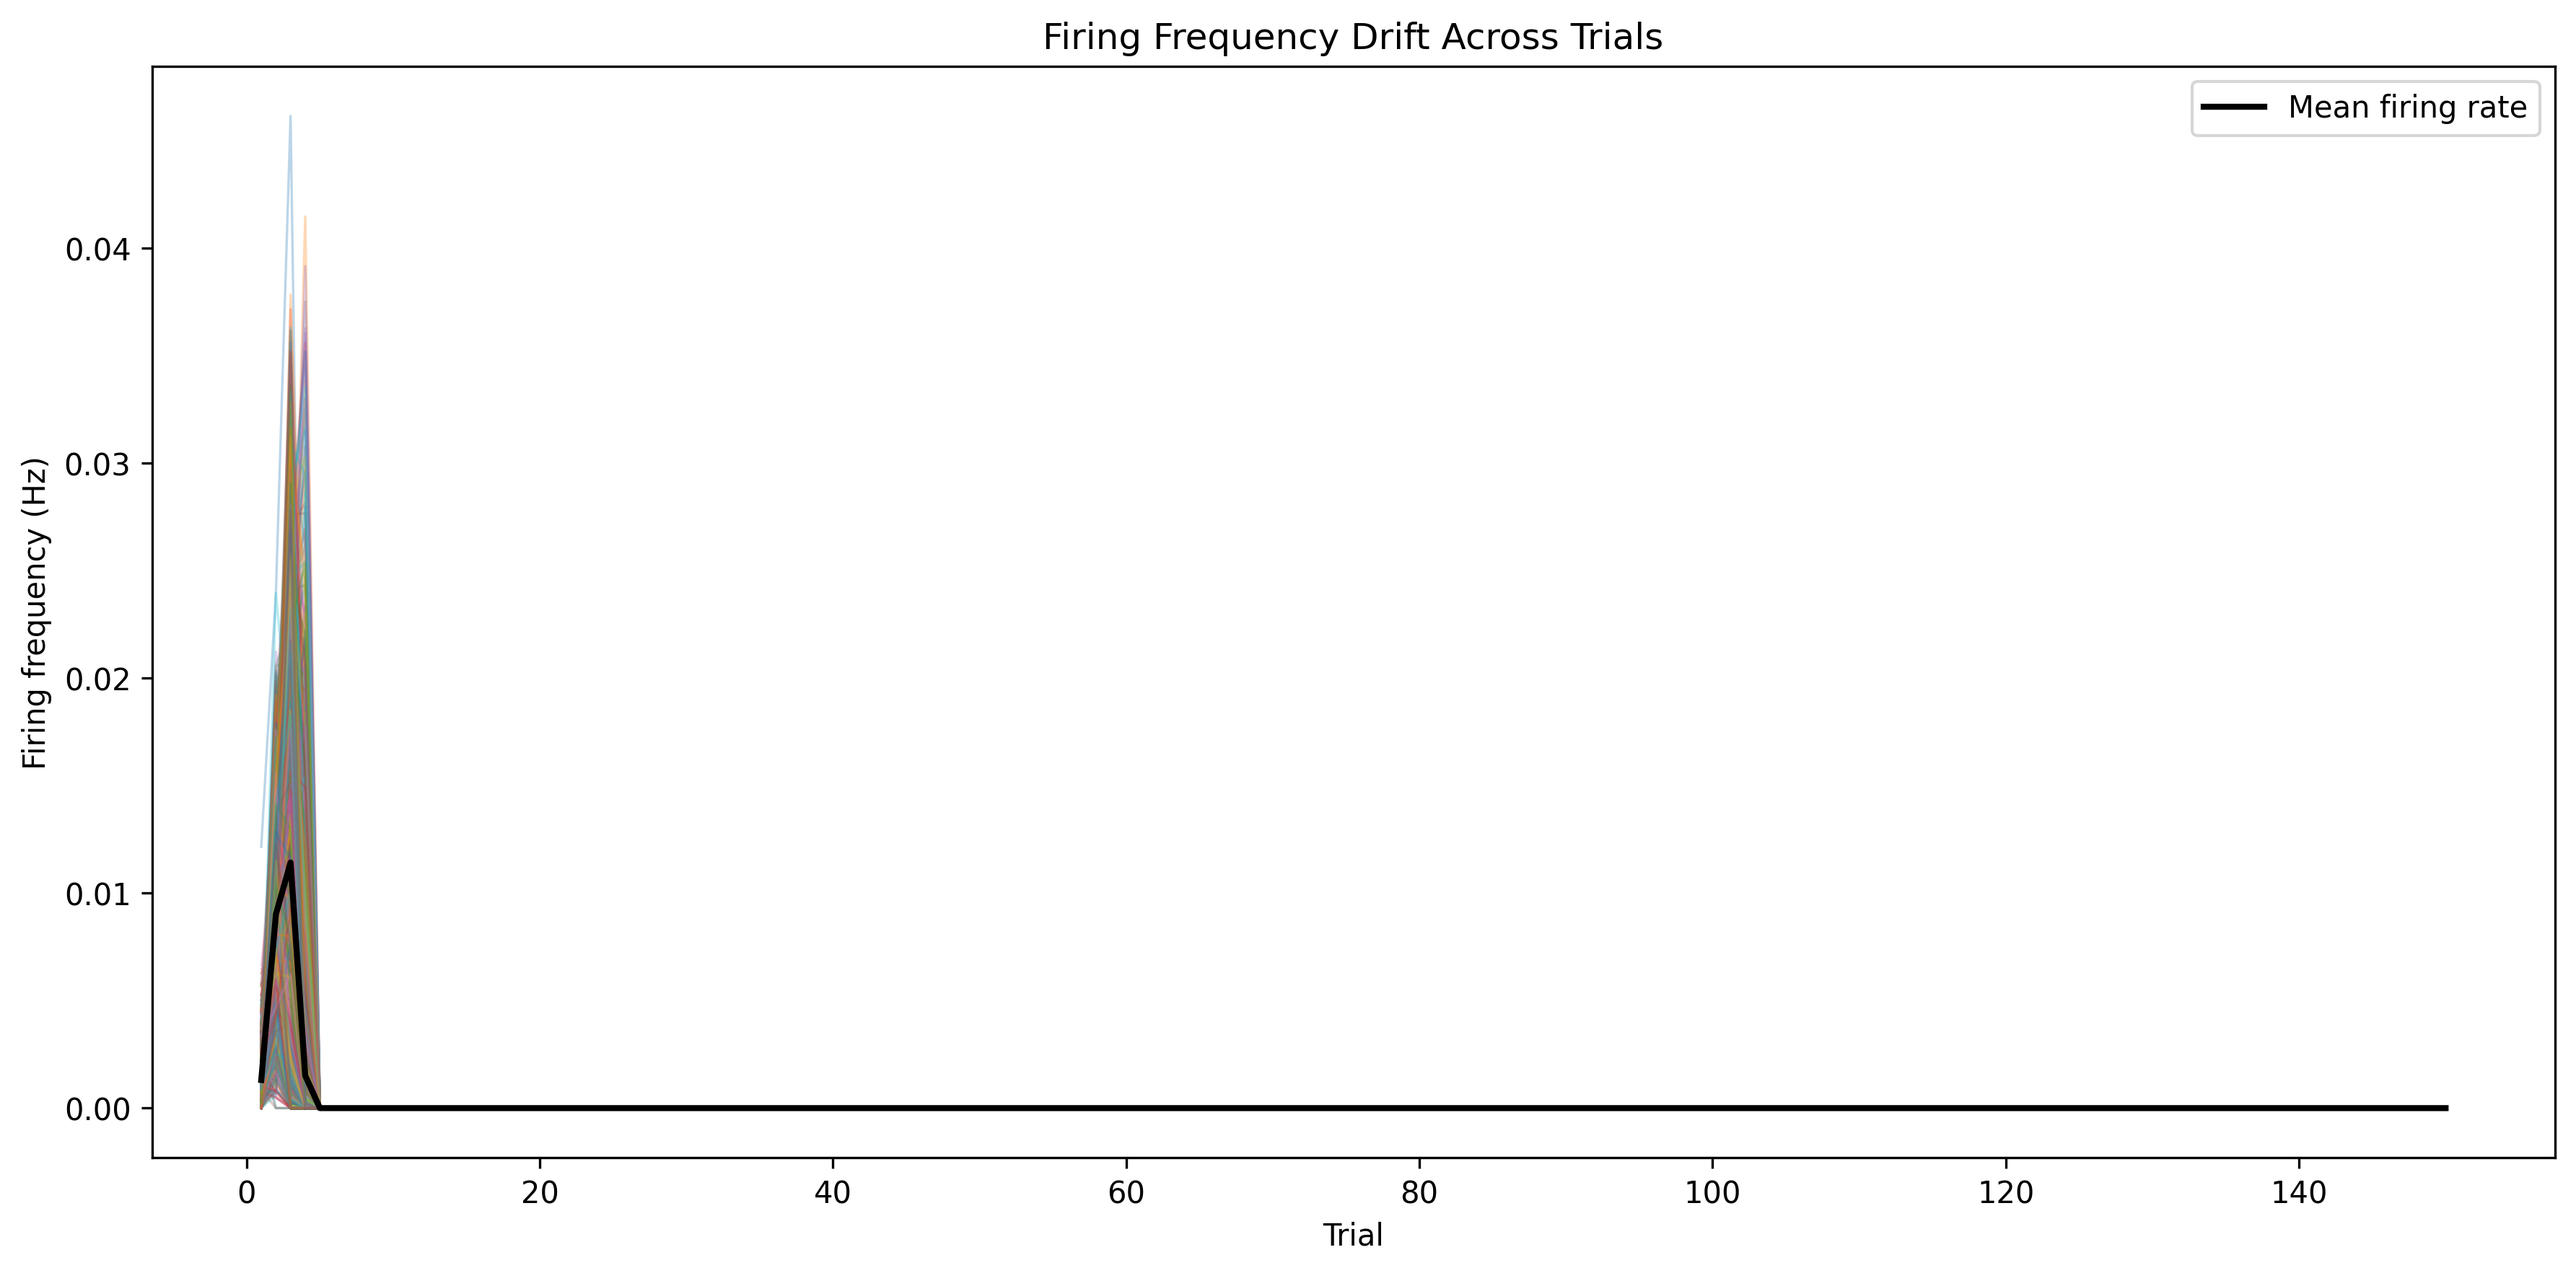
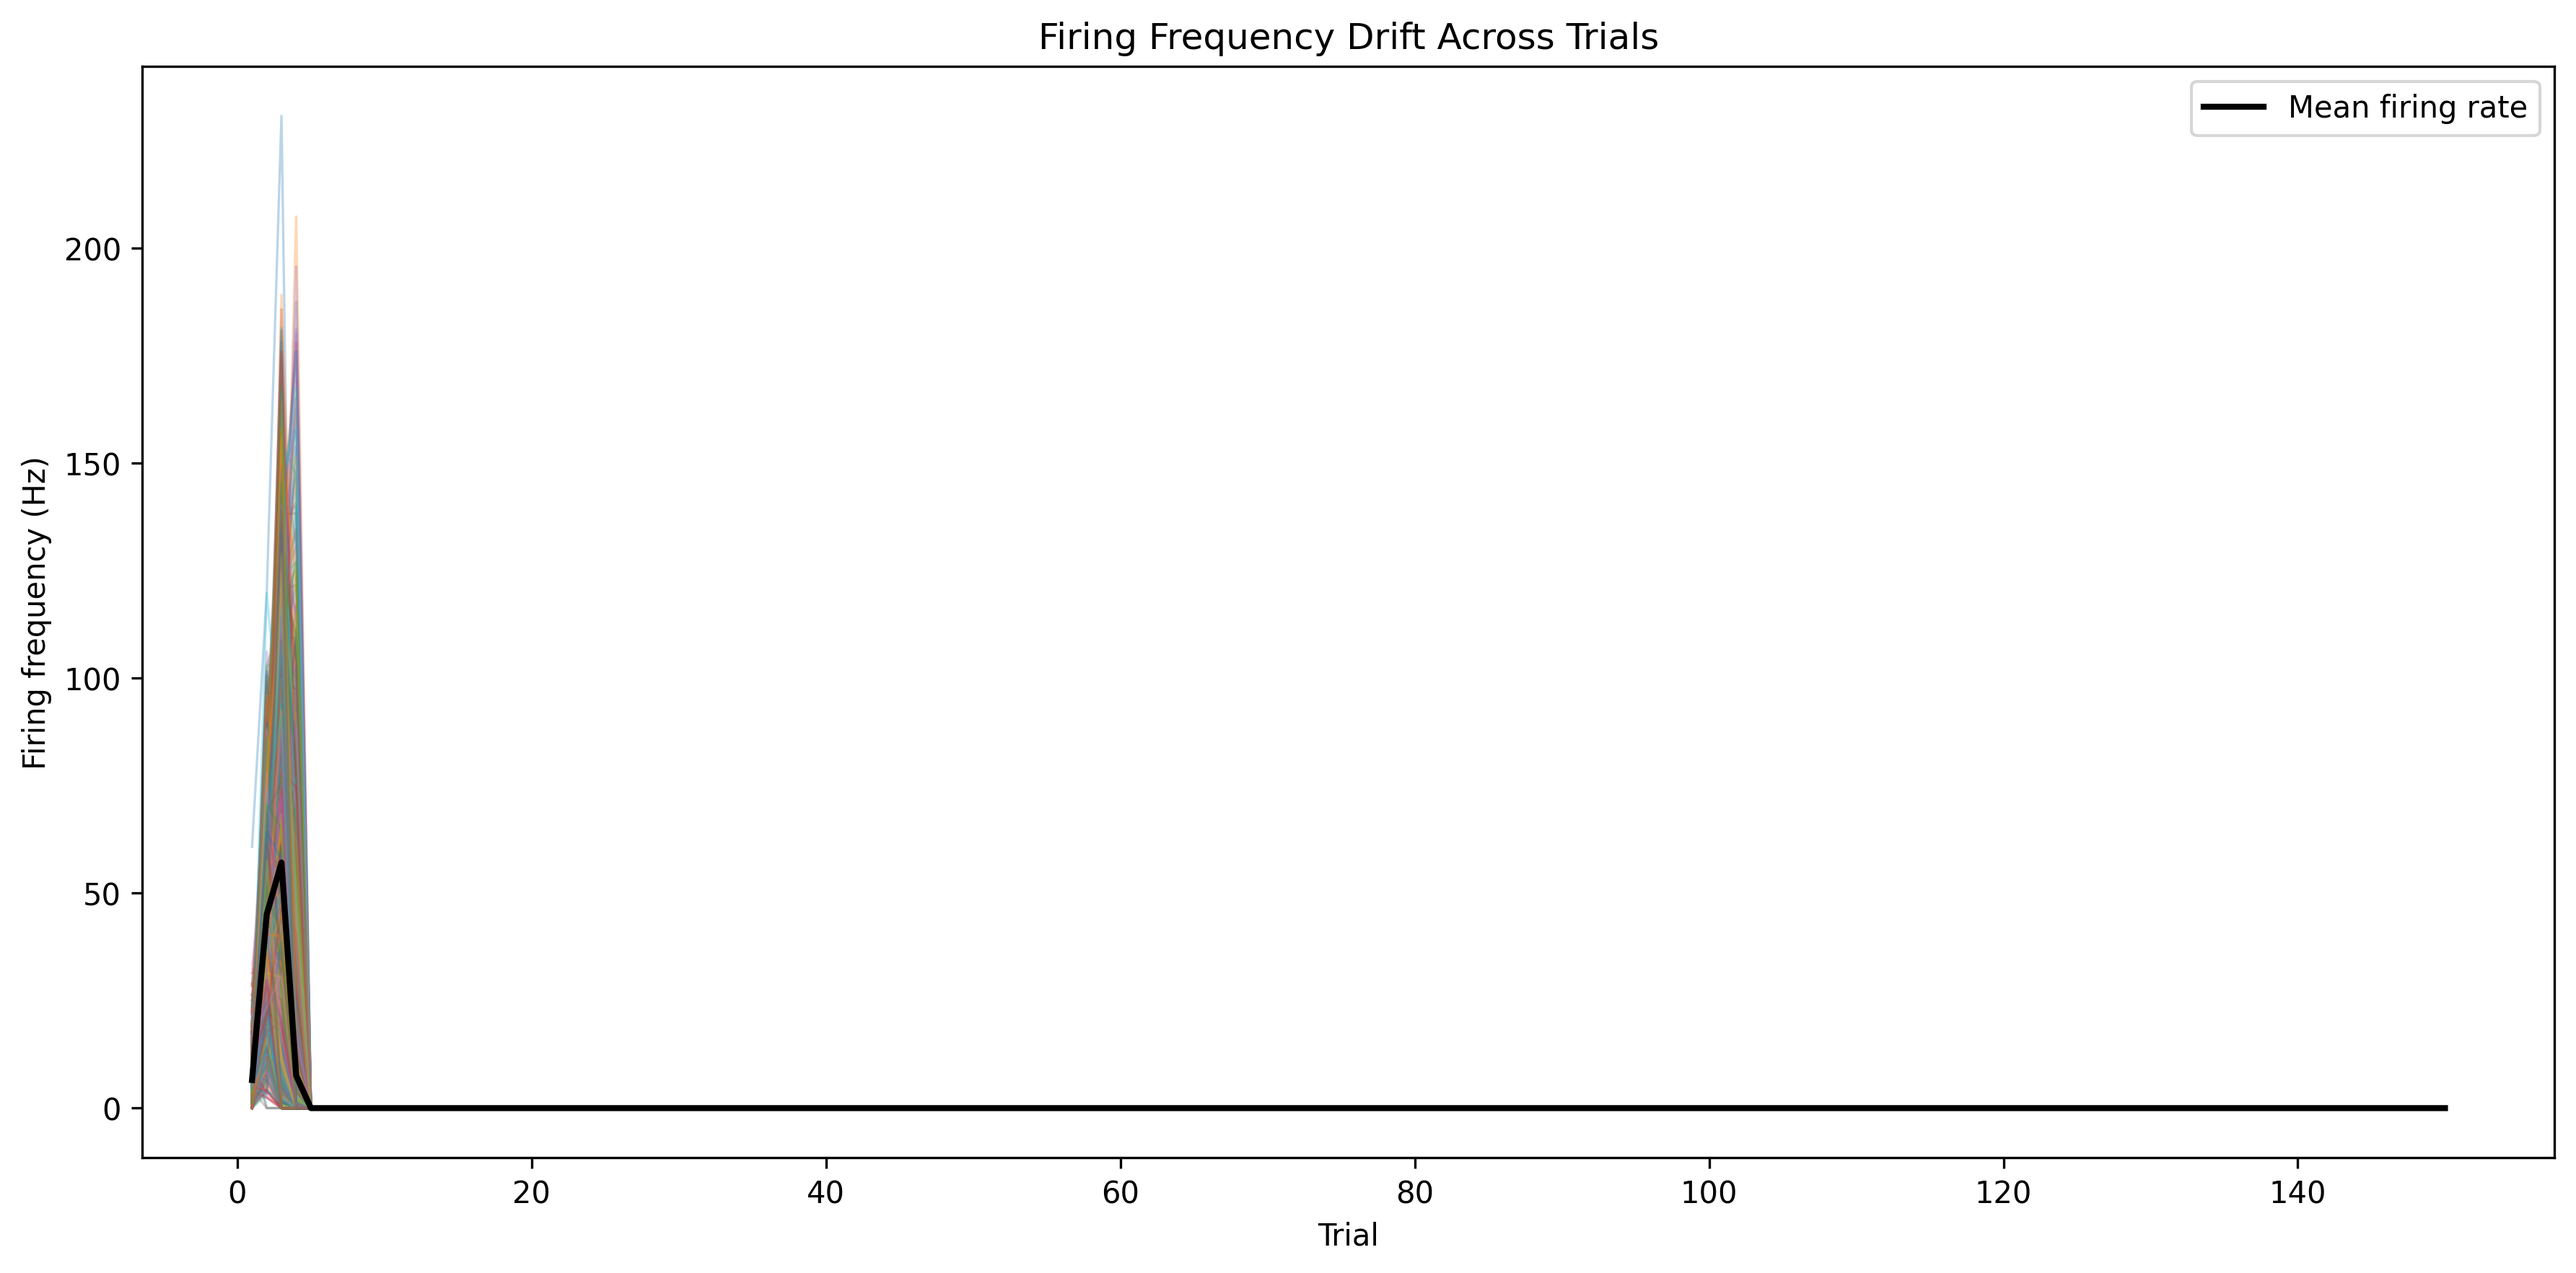
Added graphs

diff --git a/Analyze/plot_firing_frequency.py b/Analyze/plot_firing_frequency.py
@@ -26,8 +26,8 @@ def plotFiringFrequencyDrift(raster, timestep_ms=1.0, save_path=None):
 
     # Plot each cell’s firing frequency trajectory
     plt.figure(figsize=(12, 6))
-    for cell in range(num_cells):
-        plt.plot(range(1, num_trials + 1), freq[:, cell], alpha=0.3, lw=0.8)
+    # for cell in range(num_cells):
+    #     plt.plot(range(1, num_trials + 1), freq[:, cell], alpha=0.3, lw=0.8)
 
     # Plot the population average in bold
     plt.plot(range(1, num_trials + 1), np.mean(freq, axis=1), color='black', lw=2, label='Mean firing rate')
@@ -42,14 +42,15 @@ def plotFiringFrequencyDrift(raster, timestep_ms=1.0, save_path=None):
         os.makedirs(os.path.dirname(save_path), exist_ok=True)
         plt.savefig(save_path, dpi=300, bbox_inches='tight')
         print(f"Plot saved to {save_path}")
+    print("Average frequency: ", np.mean(freq))
 
     plt.show()
 
 # Load the raster data
-raster_data = np.load('/home/data/einez/MFGoGr_GOGRplast_150_trials_GOrasters.npy')
+raster_data = np.load('/home/data/einez/MFGoGr_MFGRplast_150_trials_GOrasters.npy')
 print("Finished loading data")
 # Define save location
-plot_save_path = "/home/aw39625/minisim/Results/Firing_Freq_Plots/MFGoGr_GOGRplast_150_trials_GO_Firing_Frequency.png"
+plot_save_path = "/home/aw39625/minisim/Results/Firing_Freq_Plots/MFGoGr_MFGRplast_150_trials_GO_Average_Firing_Frequency.png"
 
 # Show and save
 plotFiringFrequencyDrift(raster_data, timestep_ms=1, save_path=plot_save_path)
